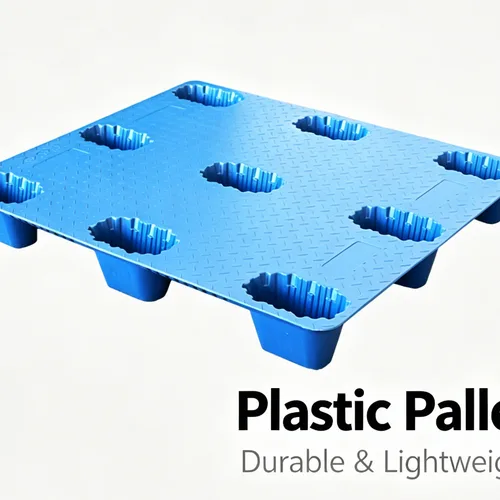
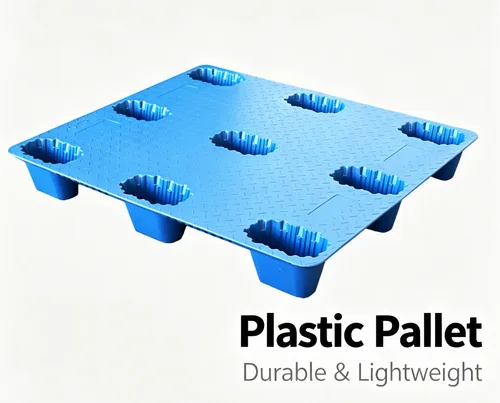
fix(产品): 通风管和托盘图片改用contain模式，保持完整画面不裁剪

diff --git a/assets/css/main.css b/assets/css/main.css
@@ -557,7 +557,7 @@ a:focus-visible,button:focus-visible{outline:2px solid var(--c-accent);outline-o
 .product-card{border-radius:var(--radius-sm)}
 .product-card:hover .img-wrap img{transform:scale(1.04)}
 .product-card .img-wrap img{transition:transform .4s var(--ease-apple)}
-.product-card .img-wrap img{position:absolute;inset:0;width:100%;height:100%;object-fit:cover}
+.product-card .img-wrap img{position:absolute;inset:0;width:100%;height:100%;object-fit:contain}
 
 .product-card .badge{
   position:absolute;top:12px;left:12px;padding:4px 10px;border-radius:4px;